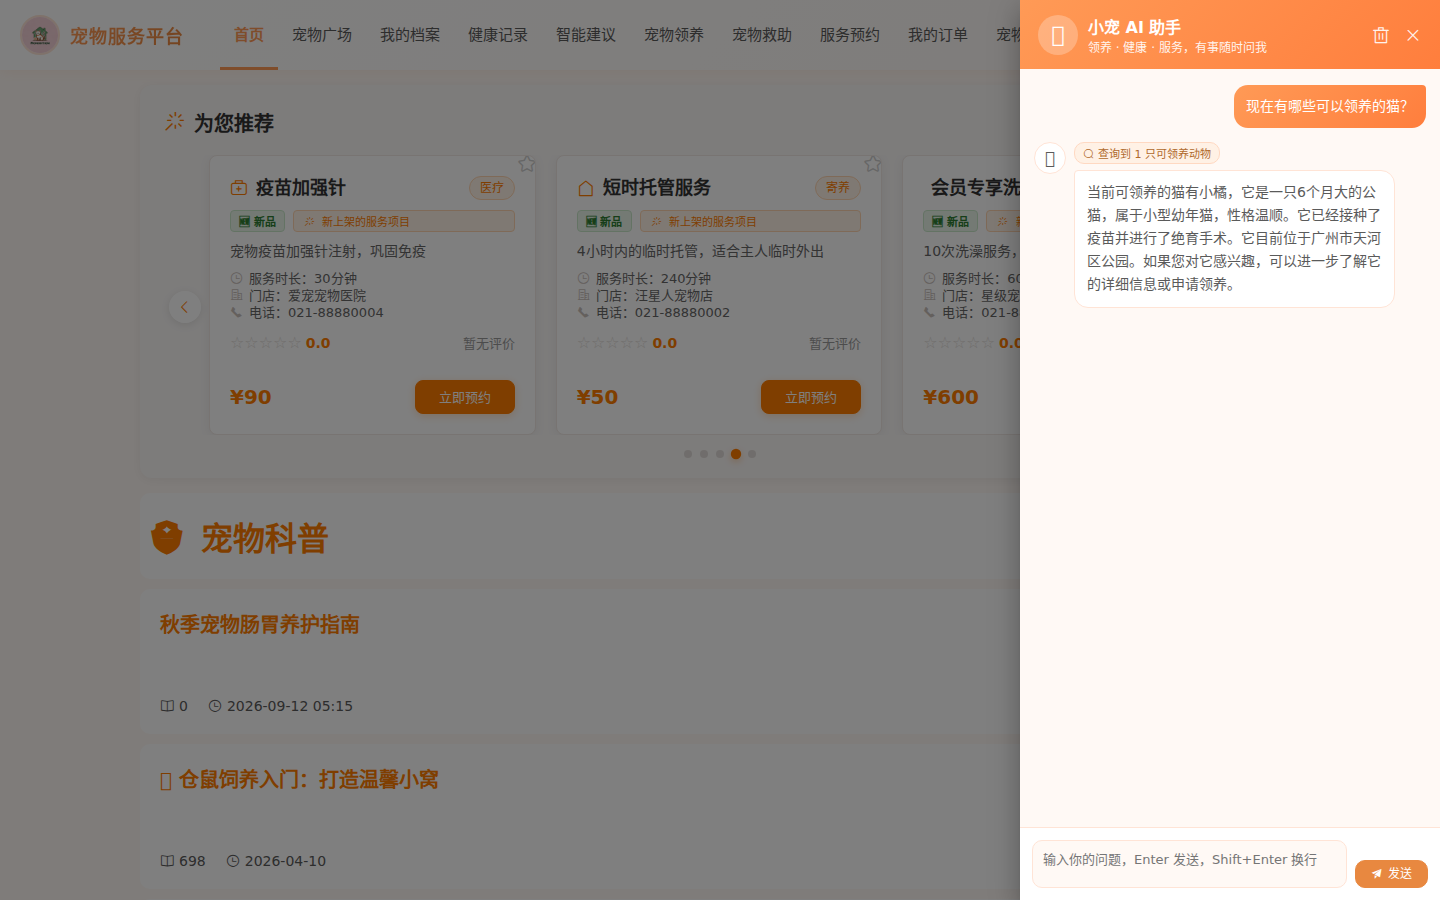
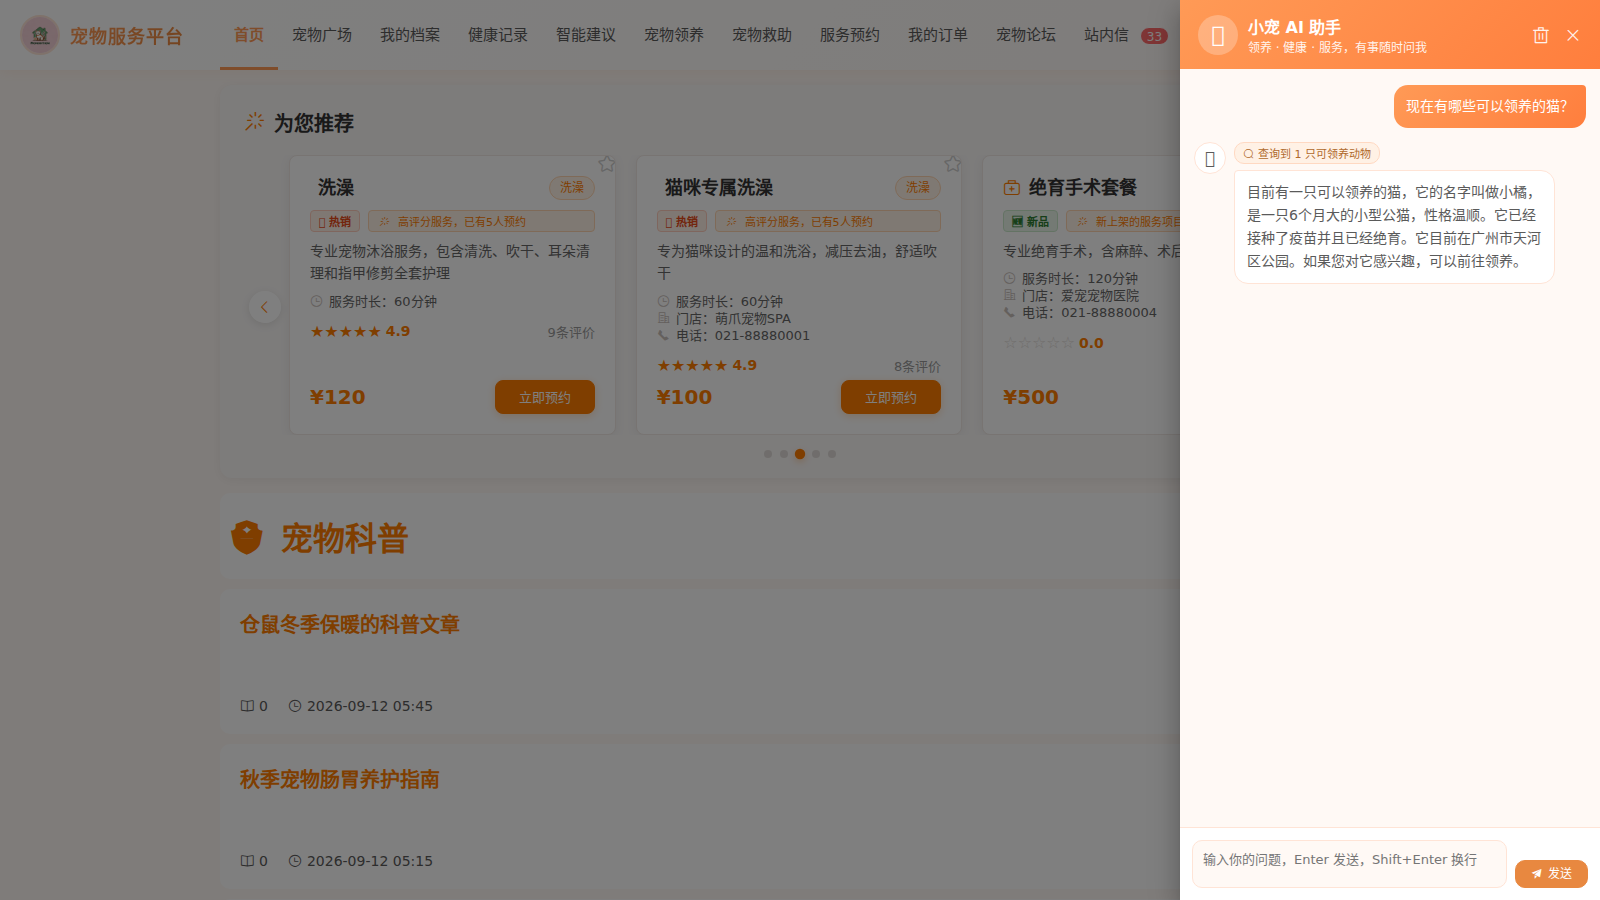
docs: README 演示区覆盖系统全部功能（用户端/AI Agent/管理后台 21 张实拍截图）

diff --git a/README.md b/README.md
@@ -112,13 +112,43 @@ pet-system
 └── start.sh                # Linux 一键启动脚本
 ```
 
-## 📸 演示
+## 📸 系统演示
 
-| AI 助手（工具调用轨迹） | 健康建议 AI 生成 |
+### 用户端功能
+
+| 登录 | 门户首页 |
 |---|---|
-| ![AI 助手](docs/images/ai-chat-tools.png) | ![健康建议](docs/images/health-advice-ai.png) |
-| **领养匹配 AI 分析** | **聊天窗拖拽调宽** |
-| ![领养分析](docs/images/adopt-analysis.png) | ![拖拽调宽](docs/images/drawer-resize.png) |
+| ![登录](docs/images/login.png) | ![门户首页](docs/images/portal-home.png) |
+| **宠物领养（筛选 + 聚类标签）** | **宠物广场（公开档案互动）** |
+| ![宠物领养](docs/images/adopt-list.png) | ![宠物广场](docs/images/pet-public.png) |
+| **健康记录与仪表盘** | **智能建议（AI 生成 + 来源标签）** |
+| ![健康记录](docs/images/health-record.png) | ![智能建议](docs/images/health-advice-ai.png) |
+| **服务预约** | **我的订单** |
+| ![服务预约](docs/images/service-reservation.png) | ![我的订单](docs/images/my-orders.png) |
+| **宠物论坛** | **站内信（AI 主动健康提醒）** |
+| ![宠物论坛](docs/images/forum.png) | ![站内信](docs/images/notice-agent-reminder.png) |
+| **我的领养（申请追踪）** | |
+| ![我的领养](docs/images/my-adopt.png) | |
+
+### 🤖 AI Agent 能力
+
+| 悬浮助手（全站入口，可拖拽调宽） | 多轮工具调用对话（工具轨迹可视化） |
+|---|---|
+| ![悬浮助手](docs/images/portal-home.png) | ![工具调用](docs/images/ai-chat-tools.png) |
+| **算法融合智能推荐**（调平台匹配算法打分：小橘 86 / 豆豆 79 / 旺财 63） | **领养申请 AI 匹配分析**（算法分 + 亮点/风险/建议） |
+| ![智能推荐](docs/images/ai-recommend.png) | ![领养分析](docs/images/adopt-ai-analysis.png) |
+| **视觉识别建档**（GLM-4V 识别品种自动填充） | **聊天窗自由拖拽调宽** |
+| ![视觉识别](docs/images/vision-recognize.png) | ![拖拽调宽](docs/images/drawer-resize.png) |
+
+### 管理后台
+
+| 数据看板 | 流浪动物管理 |
+|---|---|
+| ![数据看板](docs/images/admin-dashboard.png) | ![动物管理](docs/images/admin-animal.png) |
+| **领养申请审核 + AI 匹配分析** | **算法配置（在线调参）** |
+| ![申请审核](docs/images/admin-application-ai.png) | ![算法配置](docs/images/admin-algorithm.png) |
+| **救助站管理** | |
+| ![救助站](docs/images/admin-rescue.png) | |
 
 ## ❓ 常见问题
 
